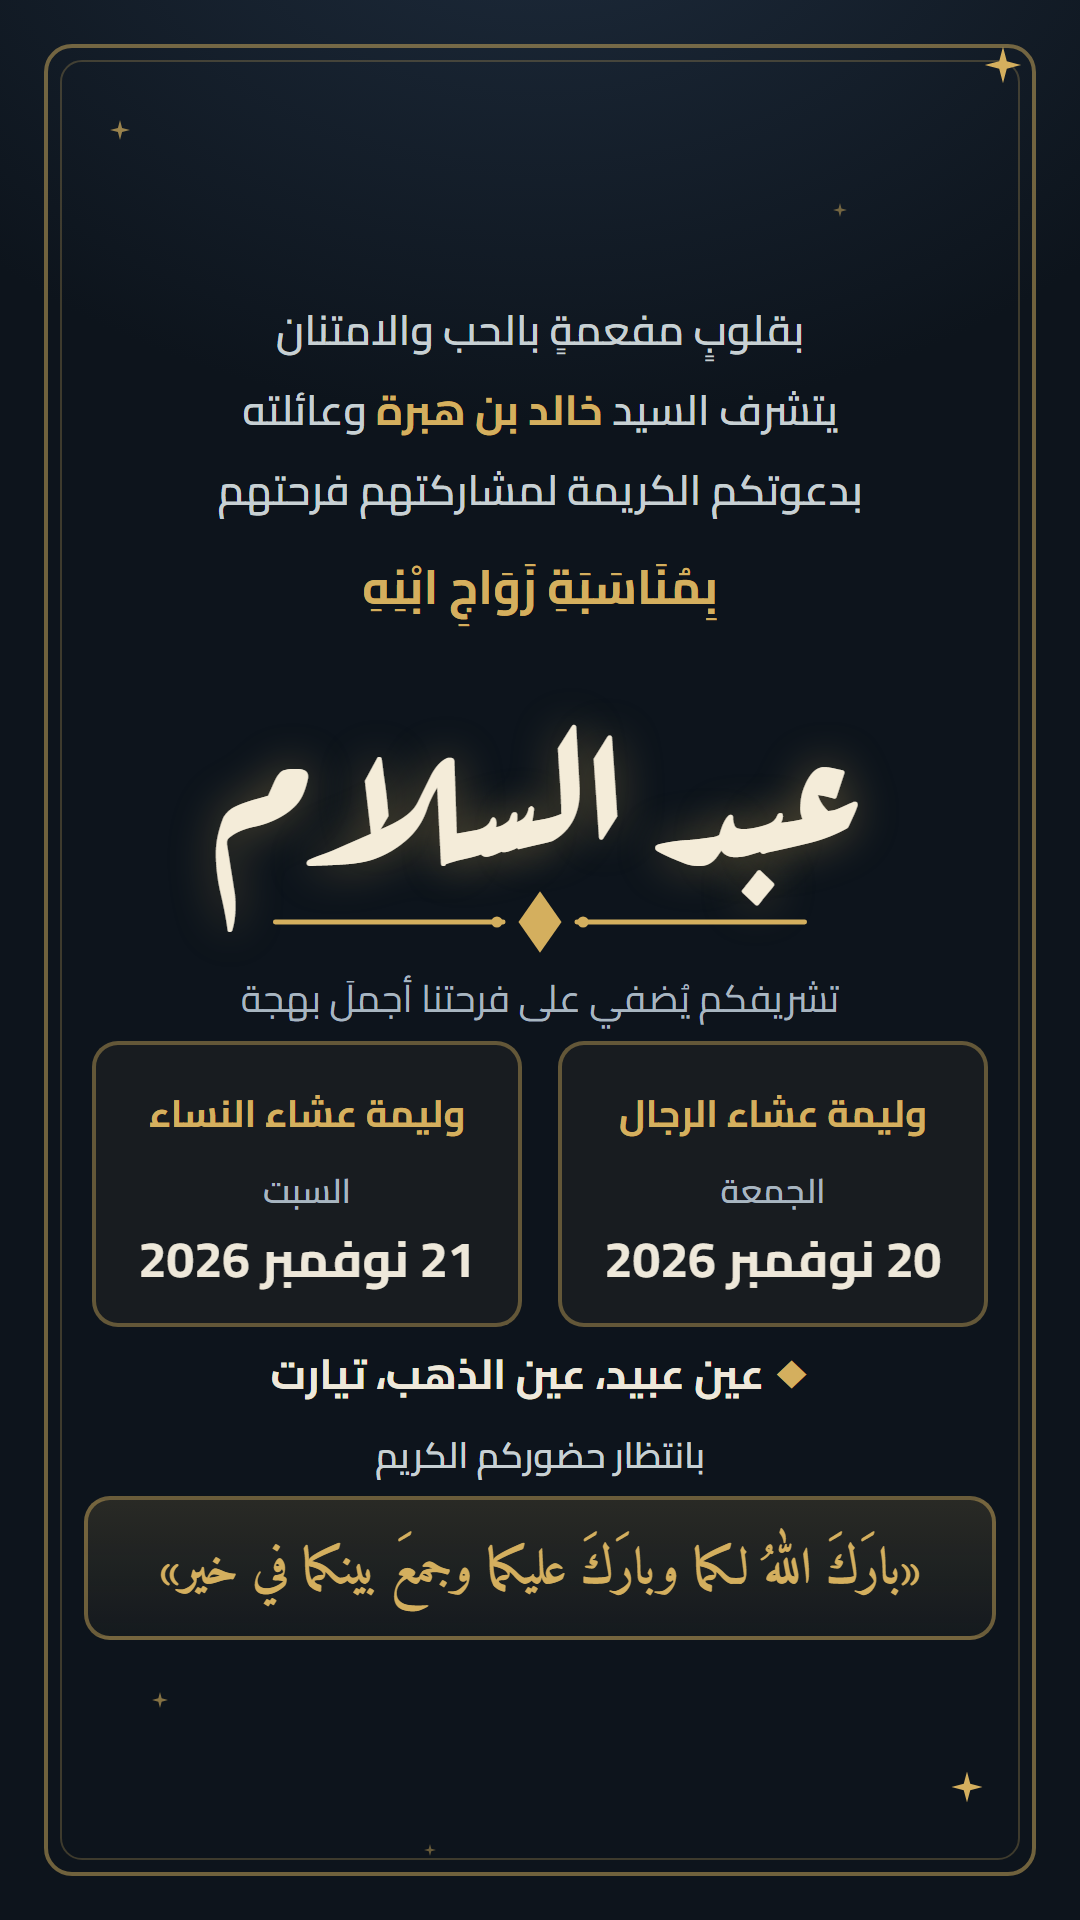
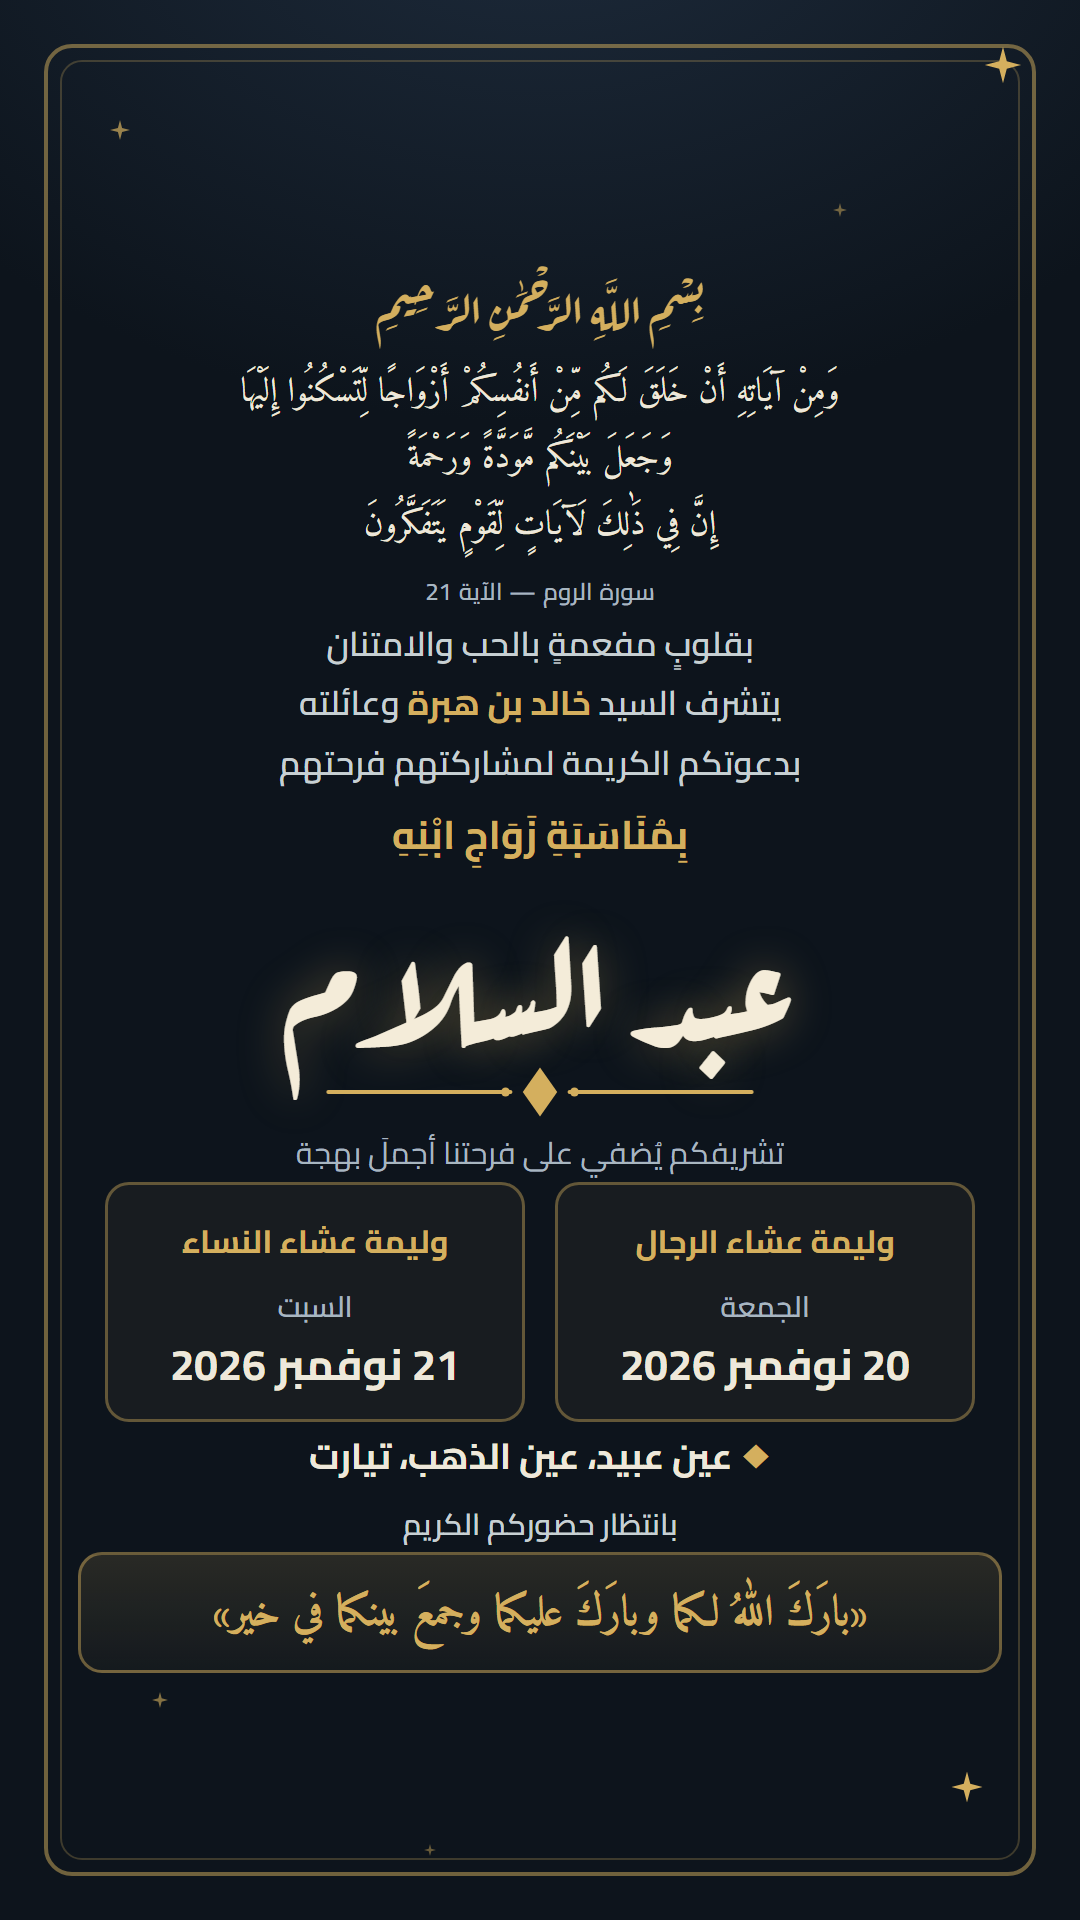
Story PNG: add basmala and Ar-Rum 21 verse at user request

Changed region(s): [[0.0611, 0.125, 0.9472, 0.875], [0.8861, 0.5312, 0.9167, 0.7188]]

diff --git a/print/story-royal.html b/print/story-royal.html
@@ -21,42 +21,47 @@
   }
   .frame{position:absolute;inset:44px;border:4px solid rgba(212,175,94,.5);border-radius:28px;pointer-events:none}
   .frame::before{content:"";position:absolute;inset:12px;border:2px solid rgba(212,175,94,.25);border-radius:22px}
-  /* stars (decor only, kept out of nothing — they may cross safe zones, they are not text) */
   .star{position:absolute;color:var(--gold)}
   .star svg{display:block}
   .content{
-    position:absolute;inset:0;padding:290px 84px 280px;text-align:center;
+    position:absolute;inset:0;padding:268px 78px 268px;text-align:center;
     display:flex;flex-direction:column;justify-content:space-between;
   }
-  .lead{font-size:34px;color:var(--muted)}
-  .host p{font-size:42px;font-weight:600;line-height:1.9;color:#c7d0d3}
+
+  .basmala{font-family:'Aref Ruqaa',serif;font-size:50px;color:var(--gold);margin-bottom:14px}
+  .verse{font-family:'Amiri',serif;font-size:34px;line-height:1.95;color:var(--ivory)}
+  .verse span{display:block}
+  .surah{font-size:24px;font-weight:600;color:var(--muted);letter-spacing:.06em;margin-top:10px}
+
+  .lead{font-size:28px;color:var(--muted)}
+  .host p{font-size:34px;font-weight:600;line-height:1.75;color:#c7d0d3}
   .host strong{color:var(--gold)}
-  .host .occasion{font-size:48px;font-weight:700;color:var(--gold);margin-top:12px}
+  .host .occasion{font-size:40px;font-weight:700;color:var(--gold);margin-top:8px}
 
-  .groom{font-family:'Aref Ruqaa',serif;font-weight:700;font-size:190px;line-height:1.4;color:#f4ecd9;
+  .groom{font-family:'Aref Ruqaa',serif;font-weight:700;font-size:150px;line-height:1.4;color:#f4ecd9;
     text-shadow:0 0 46px rgba(212,175,94,.4)}
-  .flourish{width:600px;height:80px;margin:-24px auto 0;color:var(--gold)}
+  .flourish{width:520px;height:64px;margin:-20px auto 0;color:var(--gold)}
   .flourish svg{width:100%;height:100%}
-  .joy{font-size:38px;color:var(--muted)}
+  .joy{font-size:31px;color:var(--muted)}
 
-  .events{display:flex;gap:36px;justify-content:center}
+  .events{display:flex;gap:30px;justify-content:center}
   .event{
-    flex:1;max-width:430px;border:4px solid rgba(212,175,94,.4);border-radius:26px;
-    padding:32px 18px 26px;background:var(--panel);
+    flex:1;max-width:420px;border:3.5px solid rgba(212,175,94,.4);border-radius:24px;
+    padding:26px 16px 22px;background:var(--panel);
   }
-  .event .label{font-size:38px;font-weight:700;color:var(--gold);margin-bottom:10px}
-  .event .day{font-size:34px;color:var(--muted);font-weight:600}
-  .event .date{font-size:50px;font-weight:700;color:var(--ivory);line-height:1.5}
+  .event .label{font-size:32px;font-weight:700;color:var(--gold);margin-bottom:8px}
+  .event .day{font-size:29px;color:var(--muted);font-weight:600}
+  .event .date{font-size:43px;font-weight:700;color:var(--ivory);line-height:1.45}
 
-  .loc{font-size:42px;font-weight:700;color:var(--ivory)}
+  .loc{font-size:36px;font-weight:700;color:var(--ivory)}
   .loc .pin{color:var(--gold)}
-  .await{font-size:36px;color:#c7d0d3;font-weight:600;margin-top:8px}
+  .await{font-size:30px;color:#c7d0d3;font-weight:600;margin-top:6px}
 
   .dua{
-    border:4px solid rgba(212,175,94,.45);border-radius:26px;padding:26px 30px 20px;
+    border:3.5px solid rgba(212,175,94,.45);border-radius:24px;padding:22px 26px 18px;
     background:linear-gradient(180deg,rgba(212,175,94,.14),rgba(212,175,94,.04));
   }
-  .dua p{font-family:'Amiri',serif;font-weight:700;font-size:50px;line-height:1.8;color:var(--gold)}
+  .dua p{font-family:'Amiri',serif;font-weight:700;font-size:43px;line-height:1.75;color:var(--gold)}
 </style>
 </head>
 <body>
@@ -72,6 +77,16 @@
   <span class="star" style="bottom:60px;left:420px;transform:scale(.6);opacity:.45" aria-hidden="true"><svg width="20" height="20" viewBox="0 0 24 24" fill="currentColor"><path d="M12 0 L14.5 9.5 L24 12 L14.5 14.5 L12 24 L9.5 14.5 L0 12 L9.5 9.5 Z"/></svg></span>
 
   <div class="content">
+
+    <div>
+      <p class="basmala">بِسْمِ اللَّهِ الرَّحْمَٰنِ الرَّحِيمِ</p>
+      <blockquote class="verse">
+        <span>وَمِنْ آيَاتِهِ أَنْ خَلَقَ لَكُم مِّنْ أَنفُسِكُمْ أَزْوَاجًا لِّتَسْكُنُوا إِلَيْهَا</span>
+        <span>وَجَعَلَ بَيْنَكُم مَّوَدَّةً وَرَحْمَةً</span>
+        <span>إِنَّ فِي ذَٰلِكَ لَآيَاتٍ لِّقَوْمٍ يَتَفَكَّرُونَ</span>
+      </blockquote>
+      <p class="surah">سورة الروم — الآية 21</p>
+    </div>
 
     <div class="host">
       <p class="lead">بقلوبٍ مفعمةٍ بالحب والامتنان</p>
